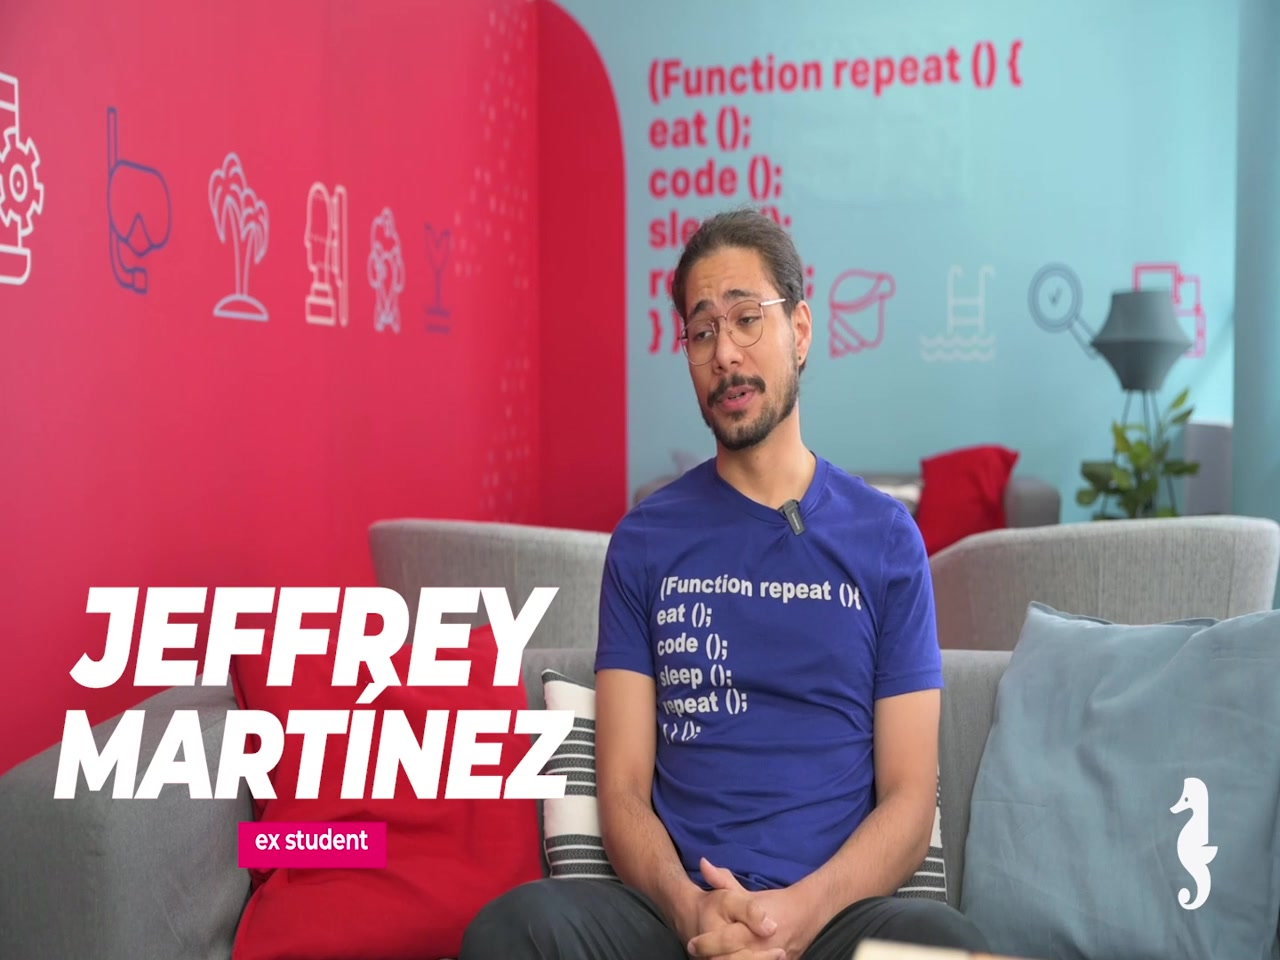
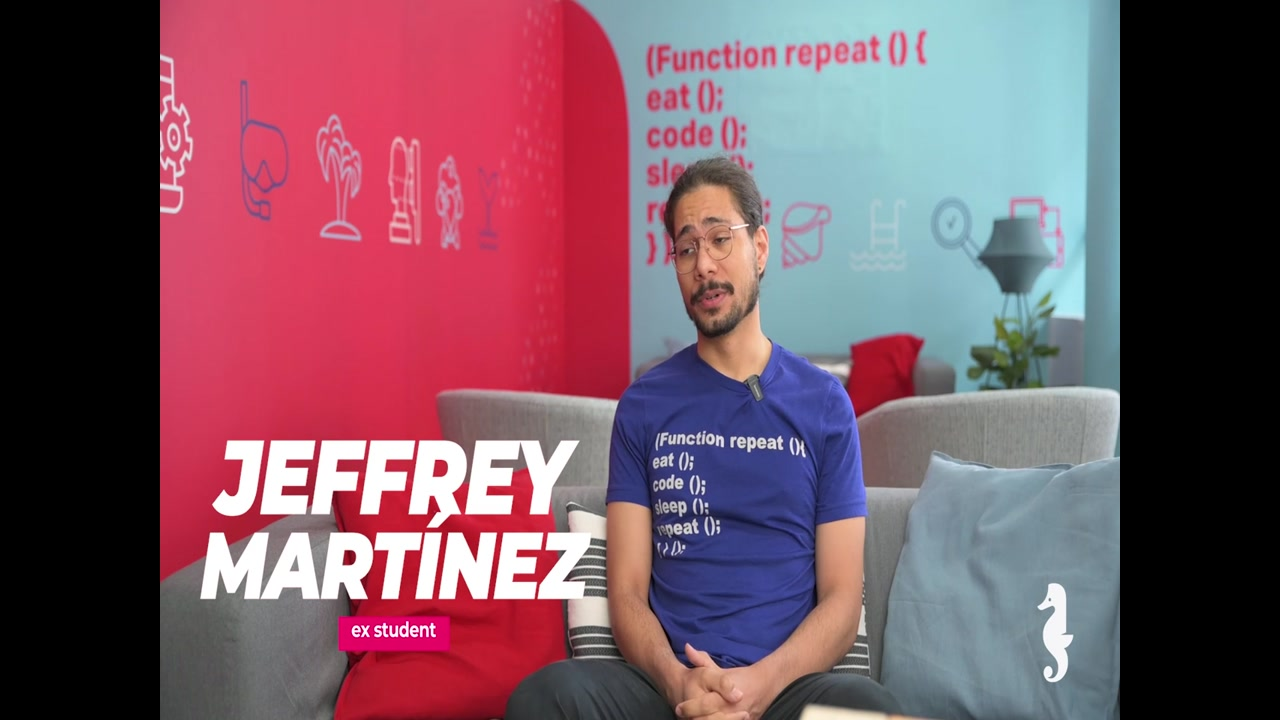
Fix video poster aspect ratio to match 16:9 embed
Regenerate the poster image at 1280x720 (16:9) and add object-fit: cover to the .embed-responsive video so Safari displays the poster at the same aspect ratio as the video embed instead of squishing it.

diff --git a/src/index.html b/src/index.html
@@ -90,6 +90,10 @@
       border-radius: 7px;
     }
 
+    .embed-responsive video {
+      object-fit: cover;
+    }
+
     .card-header {
       background-color: white;
     }
